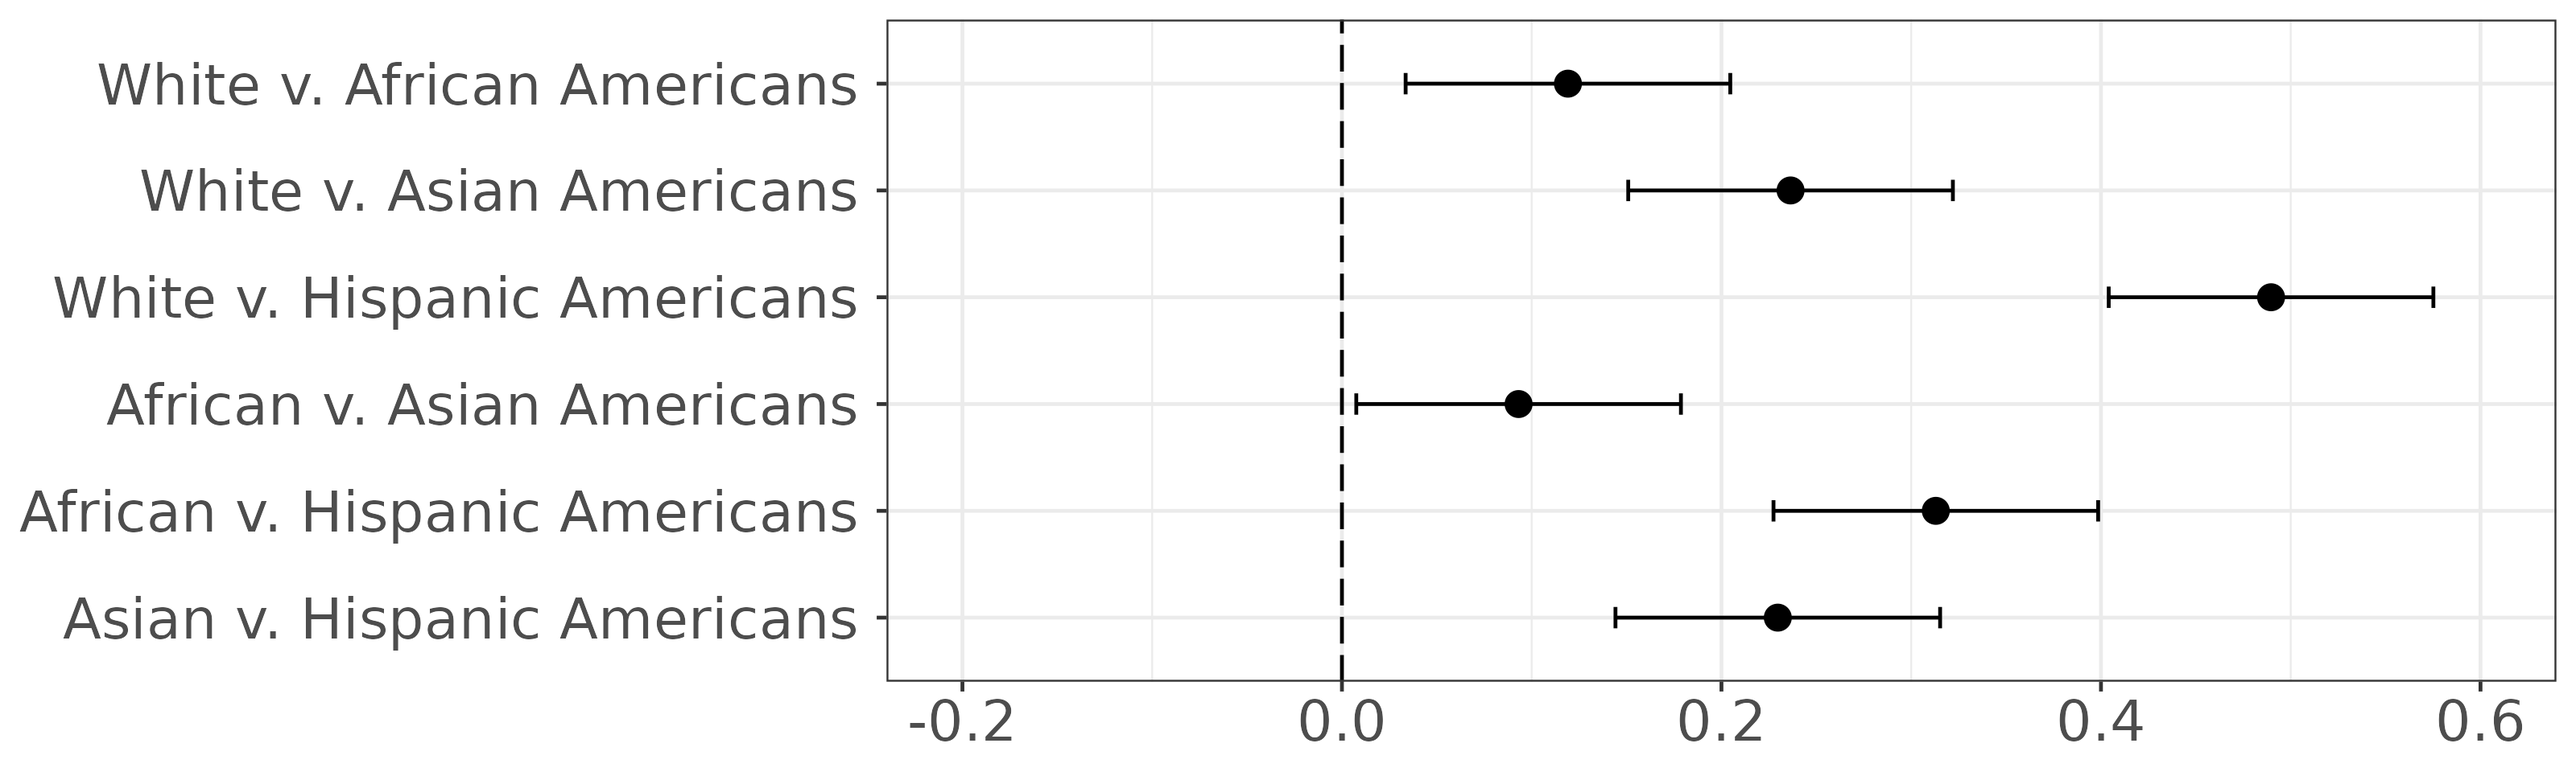
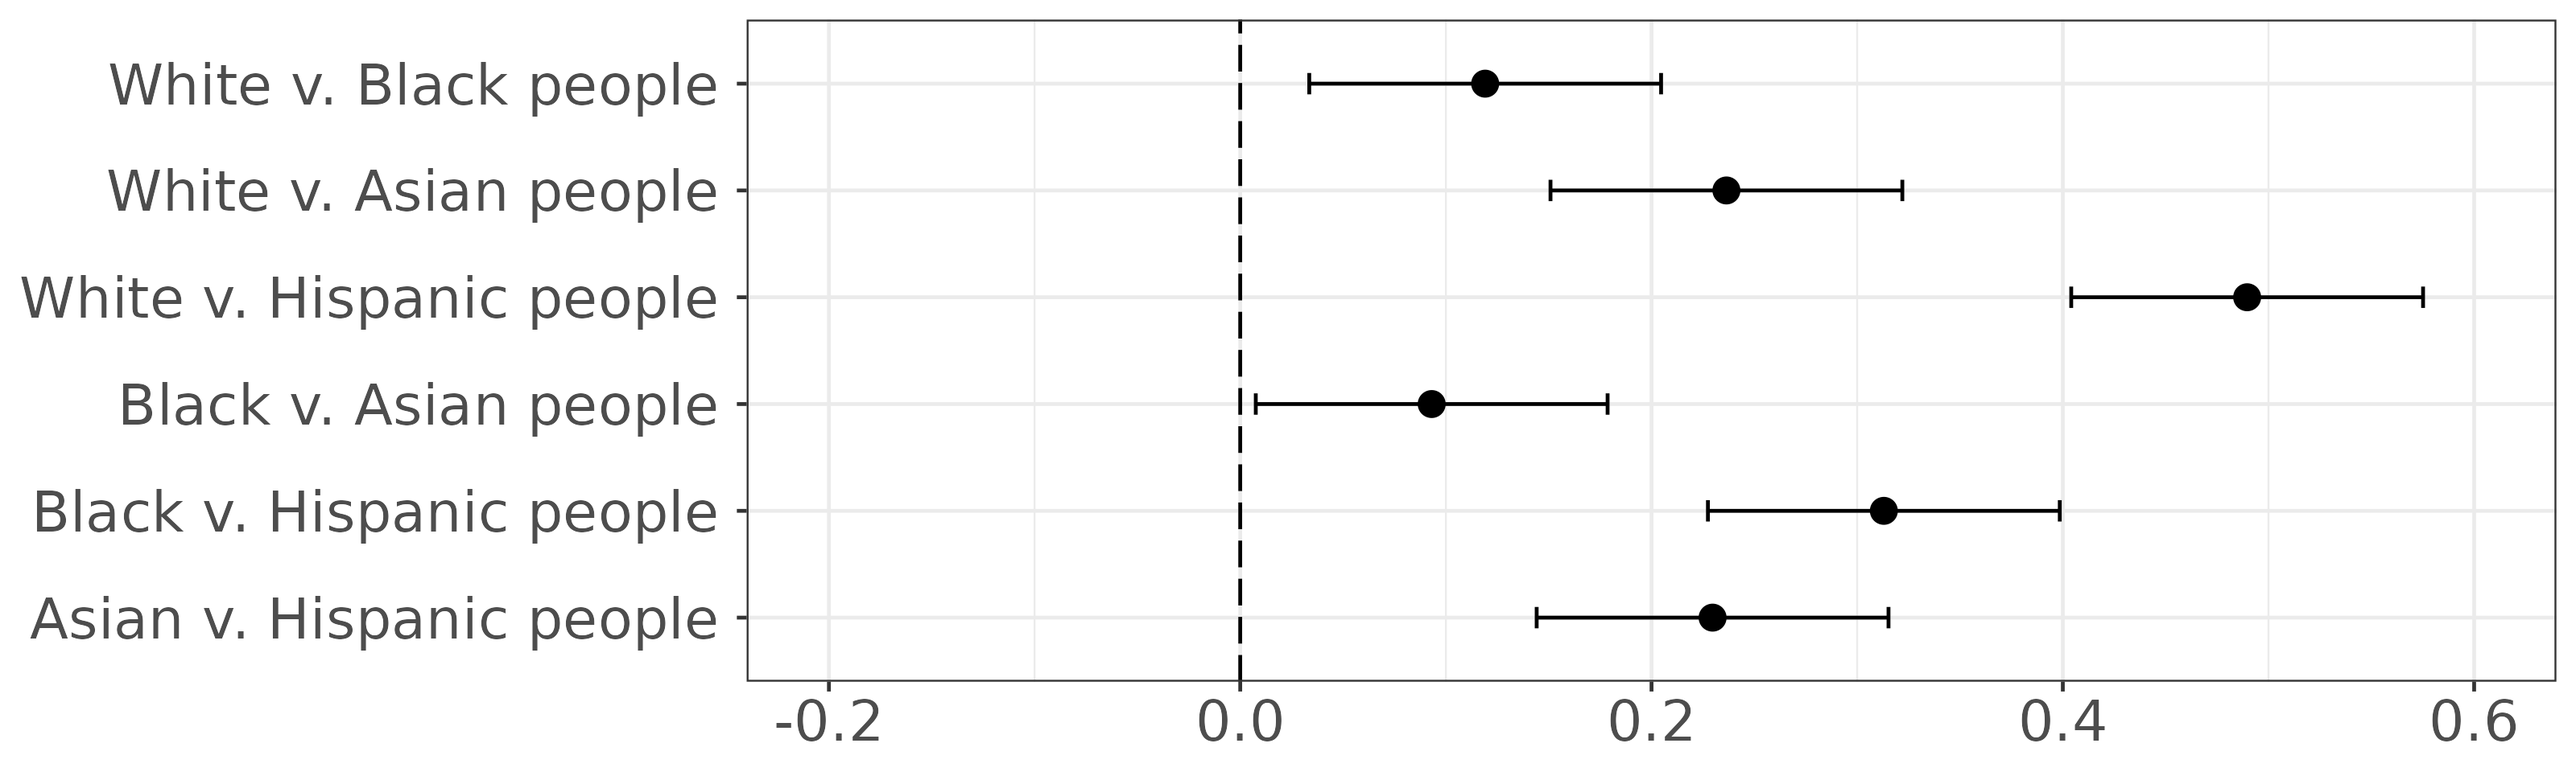
Update RIPA Analyses
RIPA files with updated group labels

diff --git a/Supplement. RIPA/ripa.py b/Supplement. RIPA/ripa.py
@@ -70,7 +70,7 @@ def cohend(d1, d2, verbose = True):
 if __name__ == "__main__": 
      
     # Set the parent directory as current path 
-    current_path = os.path.abspath('../../..')
+    current_path = os.path.abspath('..')
 
     # Import group word stimuli to represent racial/ethnic groups
     os.chdir(os.path.join(current_path, 'Group Word Stimuli/Names70')) # Depending on threshold, change here:
@@ -103,63 +103,63 @@ if __name__ == "__main__":
     white_americanness = ripa_scores(model, white_names, american_list, foreign_list)
 
     # Six RIPA comparisons pertaining to Superiority 
-    wb_superior_label = ['White v. African Americans', 'Superiority']
+    wb_superior_label = ['White v. Black people', 'Superiority']
     print('Whites v. Blacks | Superior v. Inferior')
     wb_superior = cohend(white_superiority, black_superiority, verbose = True)
     row1 = np.concatenate((wb_superior_label, wb_superior), axis = None)
 
-    wa_superior_label = ['White v. Asian Americans', 'Superiority']
+    wa_superior_label = ['White v. Asian people', 'Superiority']
     print('Whites v. Asian | Superior v. Inferior')
     wa_superior = cohend(white_superiority, asian_superiority, verbose = True)
     row2 = np.concatenate((wa_superior_label, wa_superior), axis = None)
 
-    wh_superior_label = ['White v. Hispanic Americans', 'Superiority']
+    wh_superior_label = ['White v. Hispanic people', 'Superiority']
     print('Whites v. Hispanics | Superior v. Inferior')
     wh_superior = cohend(white_superiority, hispanic_superiority, verbose = True)
     row3 = np.concatenate((wh_superior_label, wh_superior), axis = None)
 
-    ab_superior_label = ['Asian v. African Americans', 'Superiority']
+    ab_superior_label = ['Asian v. Black people', 'Superiority']
     print('Asians v. Blacks | Superior v. Inferior')
     ab_superior = cohend(asian_superiority, black_superiority, verbose = True)
     row4 = np.concatenate((ab_superior_label, ab_superior), axis = None)
 
-    ah_superior_label = ['Asian v. Hispanic Americans', 'Superiority']
+    ah_superior_label = ['Asian v. Hispanic people', 'Superiority']
     print('Asians v. Hispanics | Superior v. Inferior')
     ah_superior = cohend(asian_superiority, hispanic_superiority, verbose = True)
     row5 = np.concatenate((ah_superior_label, ah_superior), axis = None)
 
-    bh_superior_label = ['African v. Hispanic Americans', 'Superiority']
+    bh_superior_label = ['Black v. Hispanic people', 'Superiority']
     print('Blacks v. Hispanics | Superior v. Inferior')
     bh_superior = cohend(black_superiority, hispanic_superiority, verbose = True)
     row6 = np.concatenate((bh_superior_label, bh_superior), axis = None)
 
     # Six RIPA comparisons pertaining to Americanness
-    wb_american_label = ['White v. African Americans', 'Americanness']
+    wb_american_label = ['White v. Black people', 'Americanness']
     print('Whites v. Blacks | American v. Foreign')
     wb_american = cohend(white_americanness, black_americanness, verbose = True)
     row7 = np.concatenate((wb_american_label, wb_american), axis = None)
 
-    wa_american_label = ['White v. Asian Americans', 'Americanness']
+    wa_american_label = ['White v. Asian people', 'Americanness']
     print('Whites v. Asians | American v. Foreign')
     wa_american = cohend(white_americanness, asian_americanness, verbose = True)
     row8 = np.concatenate((wa_american_label, wa_american), axis = None)
 
-    wh_american_label = ['White v. Hispanic Americans', 'Americanness']
+    wh_american_label = ['White v. Hispanic people', 'Americanness']
     print('Whites v. Hispanics | American v. Foreign')
     wh_american = cohend(white_americanness, hispanic_americanness, verbose = True)
     row9 = np.concatenate((wh_american_label, wh_american), axis = None)
 
-    ba_american_label = ['African v. Asian Americans', 'Americanness']
+    ba_american_label = ['Black v. Asian people', 'Americanness']
     print('Blacks v. Asians | American v. Foreign')
     ba_american = cohend(black_americanness, asian_americanness, verbose = True)
     row10 = np.concatenate((ba_american_label, ba_american), axis = None)
 
-    bh_american_label = ['African v. Hispanic Americans', 'Americanness']
+    bh_american_label = ['Black v. Hispanic people', 'Americanness']
     print('Blacks v. Hispanics | American v. Foreign')
     bh_american = cohend(black_americanness, hispanic_americanness, verbose = True)
     row11 = np.concatenate((bh_american_label, bh_american), axis = None)
 
-    ah_american_label = ['Asian v. Hispanic Americans', 'Americanness']
+    ah_american_label = ['Asian v. Hispanic people', 'Americanness']
     print('Asians v. Hispanic | American v. Foreign')
     ah_american = cohend(asian_americanness, hispanic_americanness, verbose = True)
     row12 = np.concatenate((ah_american_label, ah_american), axis = None)
@@ -169,6 +169,6 @@ if __name__ == "__main__":
                            columns = ['groups', 'dimensions', 'effect', 'lower', 'upper'])
 
     # Store the results inside the results folder
-    os.chdir(os.path.join(current_path, 'Supplemental Materials/RIPA/RIPA/Results'))
+    os.chdir(os.path.join(current_path, 'Supplement. RIPA/Results'))
     ripa_df.to_csv('RIPA_70.csv', index = False) # Depending on threshold, change here:
 
